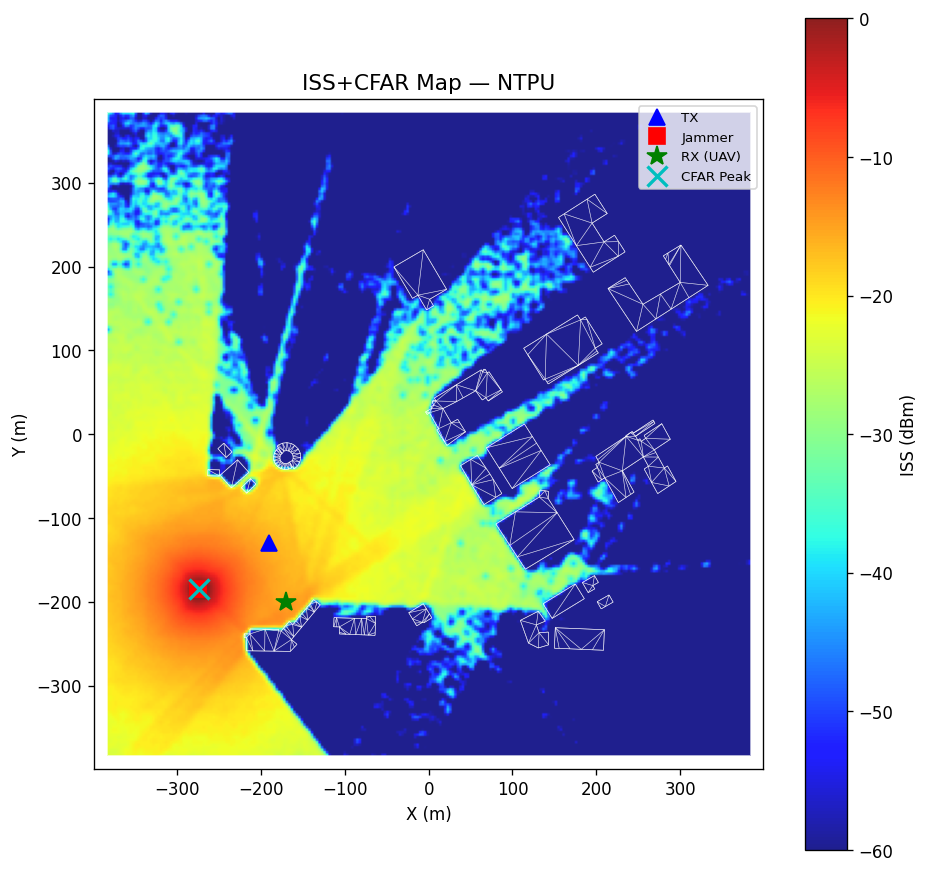
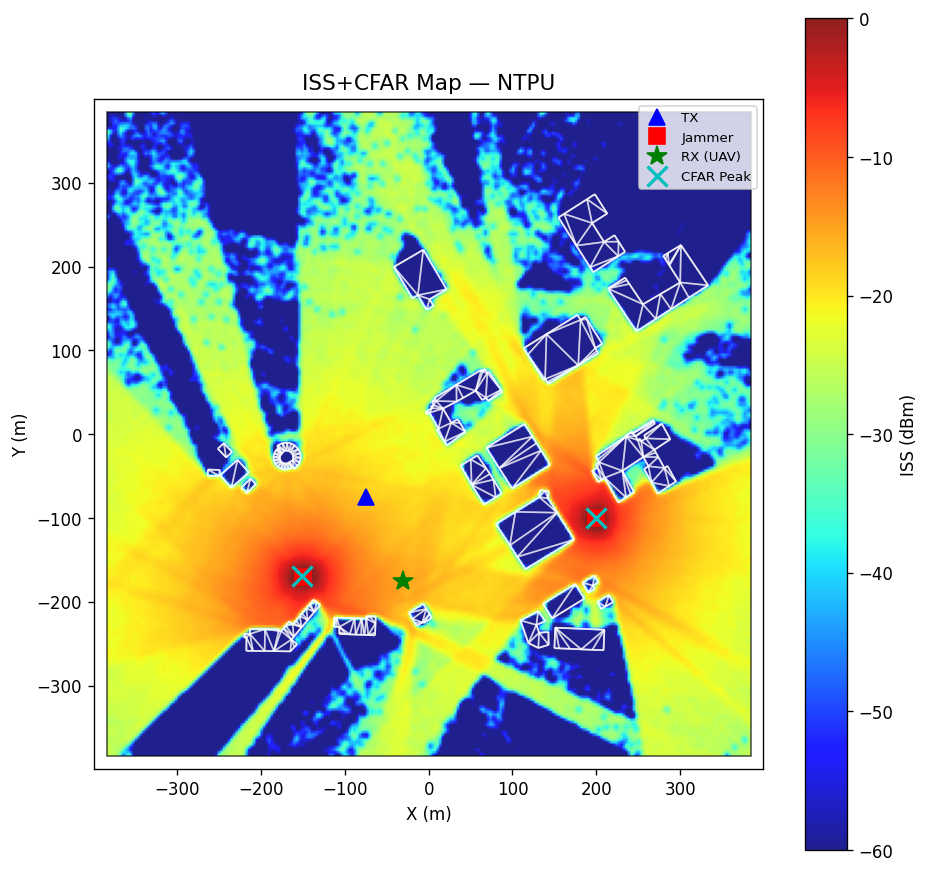
新增座標設定按鈕 現在可以更容易的編輯座標

diff --git a/frontend/src/store/useDeviceStore.ts b/frontend/src/store/useDeviceStore.ts
@@ -3,9 +3,20 @@ import type { Device, DeviceRole } from '../types/device';
 
 interface DeviceStore {
   devices: Device[];
+  deviceDefaults: Record<string, DeviceDefault>;
   addDevice: (role: DeviceRole) => void;
   removeDevice: (id: string) => void;
   updateDevice: (id: string, patch: Partial<Omit<Device, 'id' | 'role'>>) => void;
+  saveDeviceDefault: (id: string) => void;
+  applyDeviceDefault: (id: string) => void;
+  zeroDevice: (id: string) => void;
+}
+
+interface DeviceDefault {
+  x: number;
+  y: number;
+  z: number;
+  powerDbm?: number;
 }
 
 let _nextId = 1;
@@ -17,8 +28,8 @@ function countByRole(devices: Device[], role: DeviceRole): number {
   return devices.filter((d) => d.role === role).length;
 }
 
-const DEFAULT_TX_POWER_DBM = 80;
-const DEFAULT_JAM_POWER_DBM = 80;
+const DEFAULT_TX_POWER_DBM = 60;
+const DEFAULT_JAM_POWER_DBM = 60;
 
 function defaultPowerDbm(role: DeviceRole): number | undefined {
   if (role === 'tx') return DEFAULT_TX_POWER_DBM;
@@ -31,32 +42,49 @@ const DEFAULT_DEVICES: Device[] = [
     id: 'dev-tx-0',
     name: 'tx-0',
     role: 'tx',
-    x: -190,
+    x: -75,
     y: 0,
-    z: 130,
+    z: 75,
     powerDbm: DEFAULT_TX_POWER_DBM,
   },
   {
     id: 'dev-rx-0',
     name: 'rx-0',
     role: 'rx',
-    x: -170,
+    x: -30,
     y: 10,
-    z: 200,
+    z: 175,
   },
   {
     id: 'dev-jam-0',
     name: 'jam-0',
     role: 'jammer',
-    x: -275,
+    x: -150,
     y: 0,
-    z: 185,
+    z: 170,
     powerDbm: DEFAULT_JAM_POWER_DBM,
   },
 ];
 
+function makeDeviceDefault(device: Device): DeviceDefault {
+  return {
+    x: device.x,
+    y: device.y,
+    z: device.z,
+    ...(device.powerDbm !== undefined ? { powerDbm: device.powerDbm } : {}),
+  };
+}
+
+function makeDeviceDefaults(devices: Device[]): Record<string, DeviceDefault> {
+  return devices.reduce<Record<string, DeviceDefault>>((defaults, device) => {
+    defaults[device.id] = makeDeviceDefault(device);
+    return defaults;
+  }, {});
+}
+
 export const useDeviceStore = create<DeviceStore>((set) => ({
   devices: DEFAULT_DEVICES,
+  deviceDefaults: makeDeviceDefaults(DEFAULT_DEVICES),
 
   addDevice: (role) => {
     set((state) => {
@@ -72,19 +100,83 @@ export const useDeviceStore = create<DeviceStore>((set) => ({
         z: 0,
         ...(powerDbm !== undefined ? { powerDbm } : {}),
       };
-      return { devices: [...state.devices, newDevice] };
+      return {
+        devices: [...state.devices, newDevice],
+        deviceDefaults: {
+          ...state.deviceDefaults,
+          [newDevice.id]: makeDeviceDefault(newDevice),
+        },
+      };
     });
   },
 
   removeDevice: (id) => {
-    set((state) => ({
-      devices: state.devices.filter((d) => d.id !== id),
-    }));
+    set((state) => {
+      const { [id]: _removedDefault, ...deviceDefaults } = state.deviceDefaults;
+      return {
+        devices: state.devices.filter((d) => d.id !== id),
+        deviceDefaults,
+      };
+    });
   },
 
   updateDevice: (id, patch) => {
     set((state) => ({
       devices: state.devices.map((d) => (d.id === id ? { ...d, ...patch } : d)),
+    }));
+  },
+
+  saveDeviceDefault: (id) => {
+    set((state) => {
+      const device = state.devices.find((d) => d.id === id);
+      if (!device) return state;
+
+      return {
+        deviceDefaults: {
+          ...state.deviceDefaults,
+          [id]: makeDeviceDefault(device),
+        },
+      };
+    });
+  },
+
+  applyDeviceDefault: (id) => {
+    set((state) => {
+      const savedDefault = state.deviceDefaults[id];
+      if (!savedDefault) return state;
+
+      return {
+        devices: state.devices.map((device) => {
+          if (device.id !== id) return device;
+
+          return {
+            ...device,
+            x: savedDefault.x,
+            y: savedDefault.y,
+            z: savedDefault.z,
+            ...(savedDefault.powerDbm !== undefined ? { powerDbm: savedDefault.powerDbm } : {}),
+          };
+        }),
+      };
+    });
+  },
+
+  zeroDevice: (id) => {
+    set((state) => ({
+      devices: state.devices.map((device) => {
+        if (device.id !== id) return device;
+
+        const savedDefault = state.deviceDefaults[id];
+        const powerDbm = savedDefault?.powerDbm ?? defaultPowerDbm(device.role);
+
+        return {
+          ...device,
+          x: 0,
+          y: 0,
+          z: 0,
+          ...(powerDbm !== undefined ? { powerDbm } : {}),
+        };
+      }),
     }));
   },
 }));

diff --git a/frontend/src/components/ui/DevicePanel.tsx b/frontend/src/components/ui/DevicePanel.tsx
@@ -10,6 +10,9 @@ interface DeviceRowProps {
   onRemove?: () => void;
   showPower: boolean;
   onApplyPosition?: () => void;
+  onSaveDefault: () => void;
+  onApplyDefault: () => void;
+  onZero: () => void;
 }
 
 type CoordAxis = 'x' | 'y' | 'z';
@@ -52,7 +55,16 @@ function CoordinateInput({
   );
 }
 
-function DeviceRow({ device, onUpdate, onRemove, showPower, onApplyPosition }: DeviceRowProps) {
+function DeviceRow({
+  device,
+  onUpdate,
+  onRemove,
+  showPower,
+  onApplyPosition,
+  onSaveDefault,
+  onApplyDefault,
+  onZero,
+}: DeviceRowProps) {
   return (
     <div className="dp-device-row">
       {/* Name */}
@@ -106,6 +118,18 @@ function DeviceRow({ device, onUpdate, onRemove, showPower, onApplyPosition }: D
           </button>
         </div>
       )}
+
+      <div className="dp-field-row dp-action-row">
+        <button className="dp-btn-overwrite" onClick={onSaveDefault}>
+          覆寫預設
+        </button>
+        <button className="dp-btn-apply-default" onClick={onApplyDefault}>
+          套用預設
+        </button>
+        <button className="dp-btn-zero" onClick={onZero}>
+          歸零
+        </button>
+      </div>
     </div>
   );
 }
@@ -122,7 +146,35 @@ interface SectionProps {
 }
 
 function Section({ title, role, devices, canAdd = false, showPower = false, onApplyPosition }: SectionProps) {
-  const { addDevice, removeDevice, updateDevice } = useDeviceStore();
+  const {
+    addDevice,
+    removeDevice,
+    updateDevice,
+    saveDeviceDefault,
+    applyDeviceDefault,
+    zeroDevice,
+    deviceDefaults,
+  } = useDeviceStore();
+
+  const handleApplyDefault = (device: Device) => {
+    const savedDefault = deviceDefaults[device.id];
+    applyDeviceDefault(device.id);
+    if (device.role === 'rx' && savedDefault && onApplyPosition) {
+      onApplyPosition({
+        ...device,
+        x: savedDefault.x,
+        y: savedDefault.y,
+        z: savedDefault.z,
+      });
+    }
+  };
+
+  const handleZero = (device: Device) => {
+    zeroDevice(device.id);
+    if (device.role === 'rx' && onApplyPosition) {
+      onApplyPosition({ ...device, x: 0, y: 0, z: 0 });
+    }
+  };
 
   return (
     <div className="dp-section">
@@ -142,6 +194,9 @@ function Section({ title, role, devices, canAdd = false, showPower = false, onAp
           onUpdate={(patch) => updateDevice(d.id, patch)}
           onRemove={canAdd ? () => removeDevice(d.id) : undefined}
           onApplyPosition={onApplyPosition ? () => onApplyPosition(d) : undefined}
+          onSaveDefault={() => saveDeviceDefault(d.id)}
+          onApplyDefault={() => handleApplyDefault(d)}
+          onZero={() => handleZero(d)}
         />
       ))}
     </div>

diff --git a/frontend/src/styles/main.scss b/frontend/src/styles/main.scss
@@ -197,6 +197,70 @@ canvas {
   }
 }
 
+.dp-action-row {
+  gap: 6px;
+}
+
+.dp-btn-overwrite,
+.dp-btn-apply-default,
+.dp-btn-zero {
+  flex: 1;
+  min-width: 0;
+  border: 1px solid transparent;
+  border-radius: 4px;
+  cursor: pointer;
+  font-size: 11px;
+  font-weight: 600;
+  padding: 3px 5px;
+  transition: background 0.15s, border-color 0.15s;
+  white-space: nowrap;
+}
+
+.dp-btn-overwrite {
+  background: rgba(150, 150, 150, 0.12);
+  border-color: rgba(150, 150, 150, 0.4);
+  color: rgb(180, 180, 180);
+
+  &:hover {
+    background: rgba(150, 150, 150, 0.25);
+    border-color: rgba(150, 150, 150, 0.7);
+  }
+
+  &:active {
+    background: rgba(150, 150, 150, 0.4);
+  }
+}
+
+.dp-btn-apply-default {
+  background: rgba(0, 200, 150, 0.12);
+  border-color: rgba(0, 200, 150, 0.4);
+  color: #00c896;
+
+  &:hover {
+    background: rgba(0, 200, 150, 0.25);
+    border-color: rgba(0, 200, 150, 0.7);
+  }
+
+  &:active {
+    background: rgba(0, 200, 150, 0.4);
+  }
+}
+
+.dp-btn-zero {
+  background: rgba(190, 55, 55, 0.12);
+  border-color: rgba(190, 55, 55, 0.4);
+  color: rgb(230, 90, 90);
+
+  &:hover {
+    background: rgba(190, 55, 55, 0.25);
+    border-color: rgba(190, 55, 55, 0.7);
+  }
+
+  &:active {
+    background: rgba(190, 55, 55, 0.4);
+  }
+}
+
 // ─── Simulation Panel (top-right) ────────────────────────────────────────────
 .sim-panel {
   position: relative;

diff --git a/frontend/src/App.tsx b/frontend/src/App.tsx
@@ -52,6 +52,11 @@ interface Photo {
   deviceId?: string | null;
 }
 
+function getInitialRxPosition(): [number, number, number] {
+  const rx = useDeviceStore.getState().devices.find((d) => d.id === 'dev-rx-0');
+  return rx ? [rx.x, rx.y, rx.z] : [0, 0, 0];
+}
+
 // ── App ─────────────────────────────────────────────────────────────
 export function App() {
   const isMobile = /iPhone|iPad|iPod|Android/i.test(navigator.userAgent);
@@ -164,7 +169,7 @@ export function App() {
   }, [allDevices, selectedDeviceId]);
 
   // ── UAV 位置 + 軌跡 ──────────────────────────────────────────────
-  const [uavPosition, setUavPosition] = useState<[number, number, number]>([-170, 10, 200]);
+  const [uavPosition, setUavPosition] = useState<[number, number, number]>(() => getInitialRxPosition());
   const [uavPath, setUavPath] = useState<Array<{ x: number; y: number; z: number }>>([]);
 
   // ── 同步 UAV 位置 → DeviceStore rx（讓 ISS/SINR 模擬使用即時座標）────
